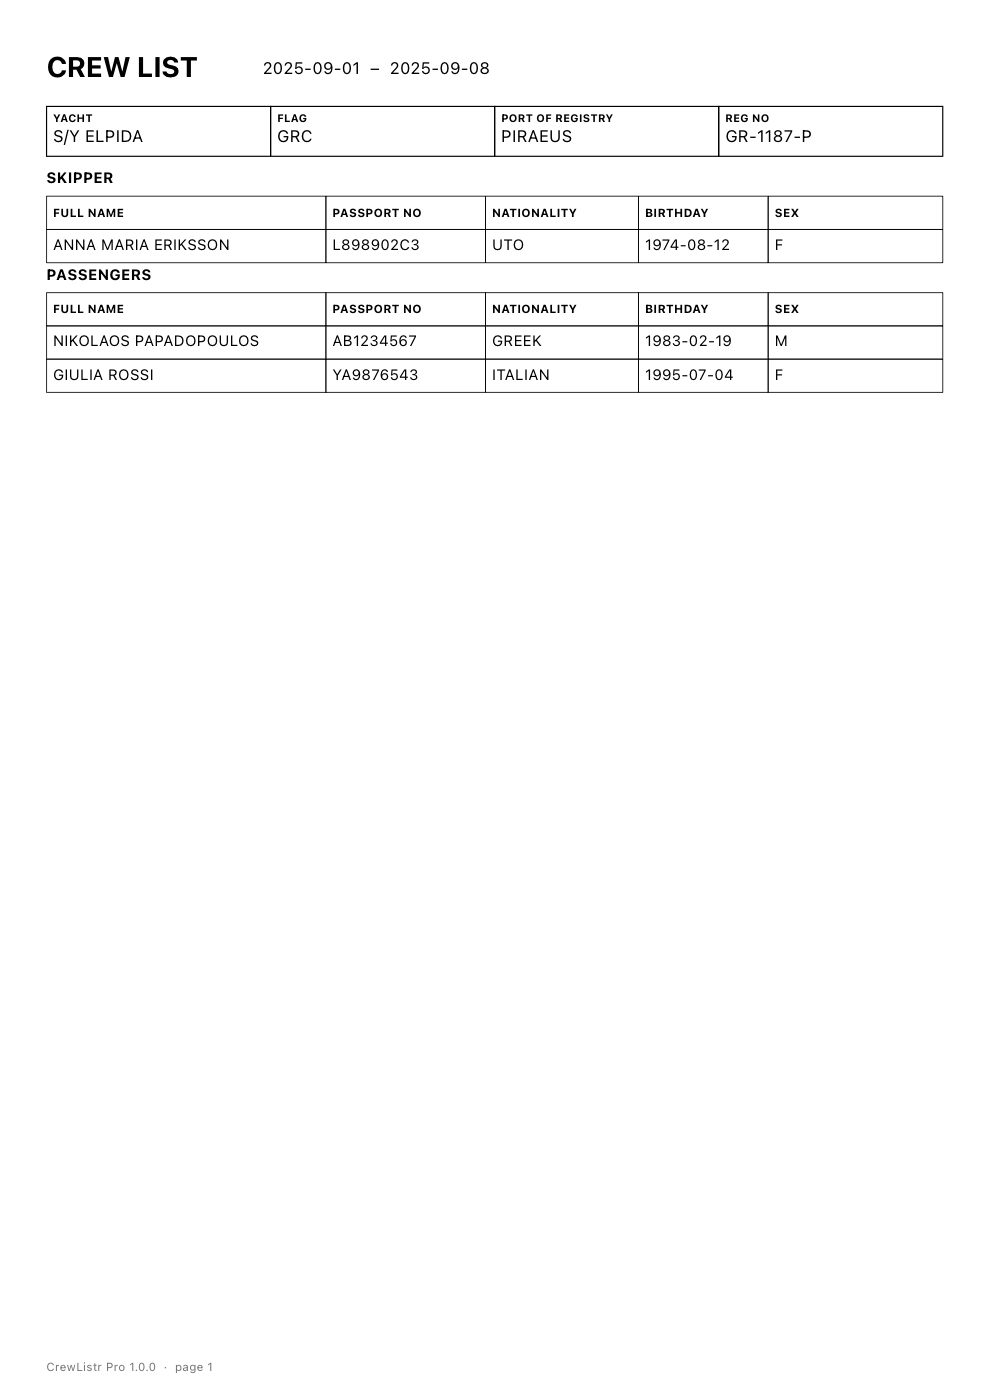
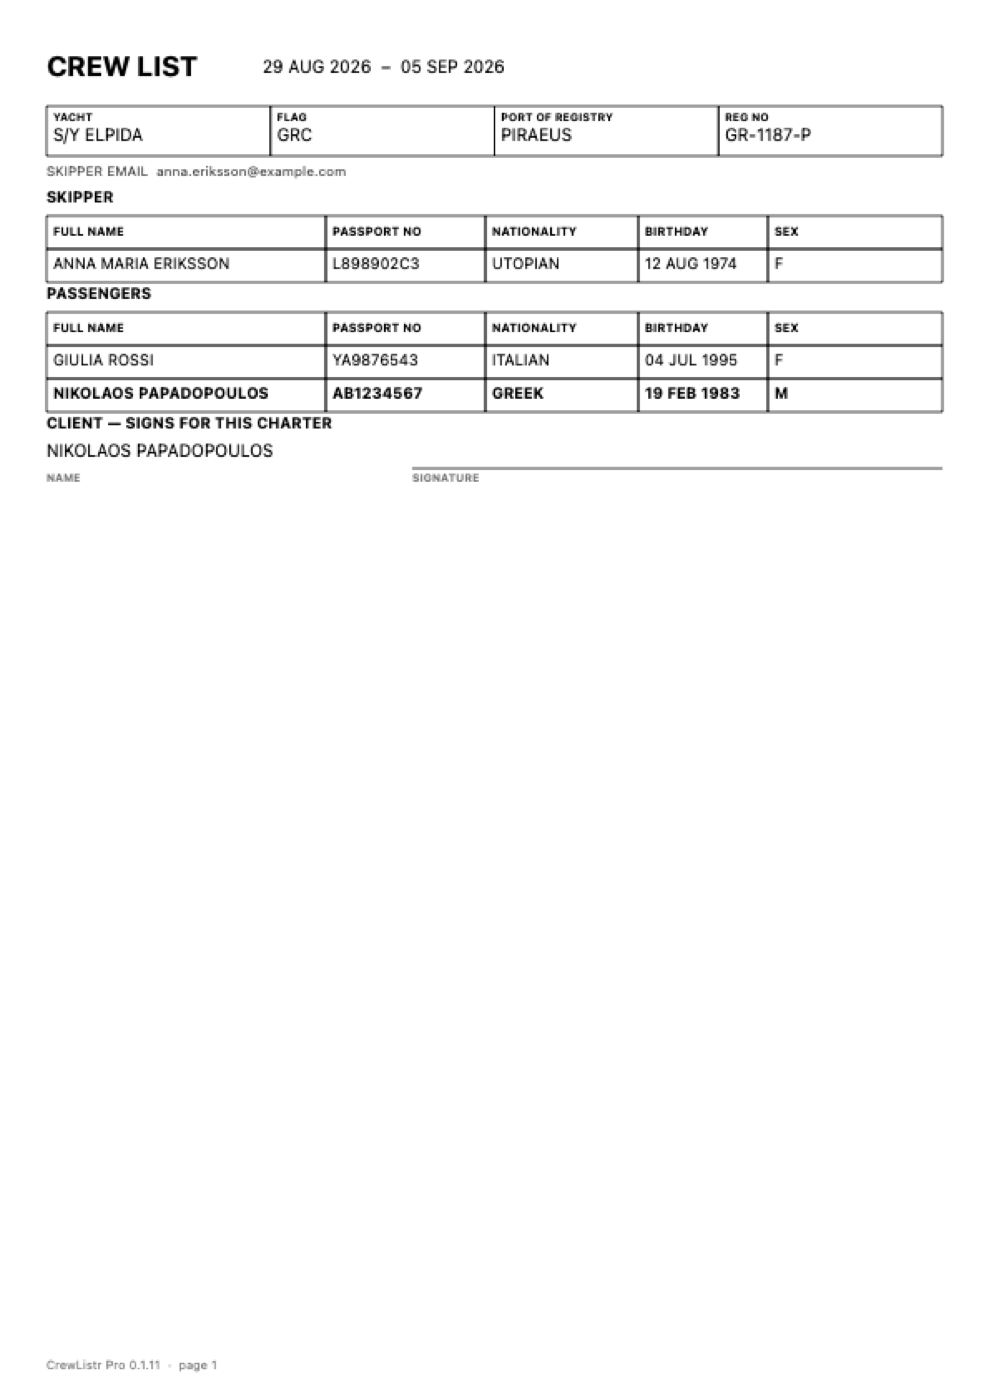
docs: screenshots of the app as it is now
Both were captured on 20 August, before any of this work, and showed an
application that no longer exists: three tabs where there are now five, no
client, no skipper's email, dates as 2025-09-01 rather than 01 SEP 2025, and a
trip dropdown in place of the strip of yachts.

Rendered by `ScreenshotTests` rather than captured by hand, from the same
fictional fleet the sample export uses. That keeps the pictures honest — they
are the real `RootView`, not a mock — and keeps every real passport, name and
registration number out of a public repository. Regenerating them is a command
rather than an afternoon, which is the only reason they will not go stale
again.

The Fleet and Settings sections had no picture at all, having been written
after the last capture, so they get one each.

The review shot's middle panel is empty, and the README now says why: the
sample crew carry extracted fields but no scan. Attaching one would mean
committing somebody's passport. The offscreen renderer could not have shown it
in any case — a SwiftUI `.task` never fires for a view that has not appeared, so
the preview never begins decrypting.

Also corrects the version in the header, which still read 0.1.8 against a
`Version.swift` saying 0.1.11.

diff --git a/README.md b/README.md
@@ -2,7 +2,7 @@
 
 <img src="docs/icon-masked.png" alt="CrewListr Pro" width="128">
 
-**Offline crew-list preparation for charter yachts.** Version 0.1.8 · macOS 15+ · Apple Silicon
+**Offline crew-list preparation for charter yachts.** Version 0.1.11 · macOS 15+ · Apple Silicon
 
 CrewListr Pro turns photographed or scanned identity documents into the crew list a port
 authority expects. Extraction runs entirely on this Mac using Vision OCR and ICAO 9303
@@ -19,6 +19,8 @@ against the document image.**
 ---
 
 ## The fleet
+
+![The fleet](docs/screenshots/02-fleet.png)
 
 Every yacht you charter, described once. Name, flag, port of registry and
 registration number are facts about the vessel, not about this August's booking —
@@ -37,6 +39,8 @@ the wrong registration number.
   it is used without asking; set a default in Settings when there are several.
 
 ## Settings
+
+![Settings](docs/screenshots/04-settings.png)
 
 Defaults for this Mac, grouped by the moment each one applies: when a trip is
 made (charter start day and length, which yacht), when a yacht is added (flag and
@@ -97,6 +101,17 @@ for everyone east of Greenwich; `VoyageDate` and `DocumentDate` now keep the two
 
 A sample of both is in [`docs/sample/`](docs/sample/), generated from fictional ICAO specimen
 documents.
+
+Every screenshot above is rendered by `ScreenshotTests` from that same fictional fleet, so no
+real passport, name or registration number appears anywhere in this repository. The middle
+panel of the review shot is empty for the same reason: the sample crew carry extracted fields
+but no scan, and rendering one would mean putting somebody's passport in a public repository.
+
+Regenerate them rather than recapturing by hand:
+
+```bash
+CREWLISTR_SCREENSHOT_OUT=/tmp/shots swift test --filter ScreenshotTests
+```
 
 ---
 
